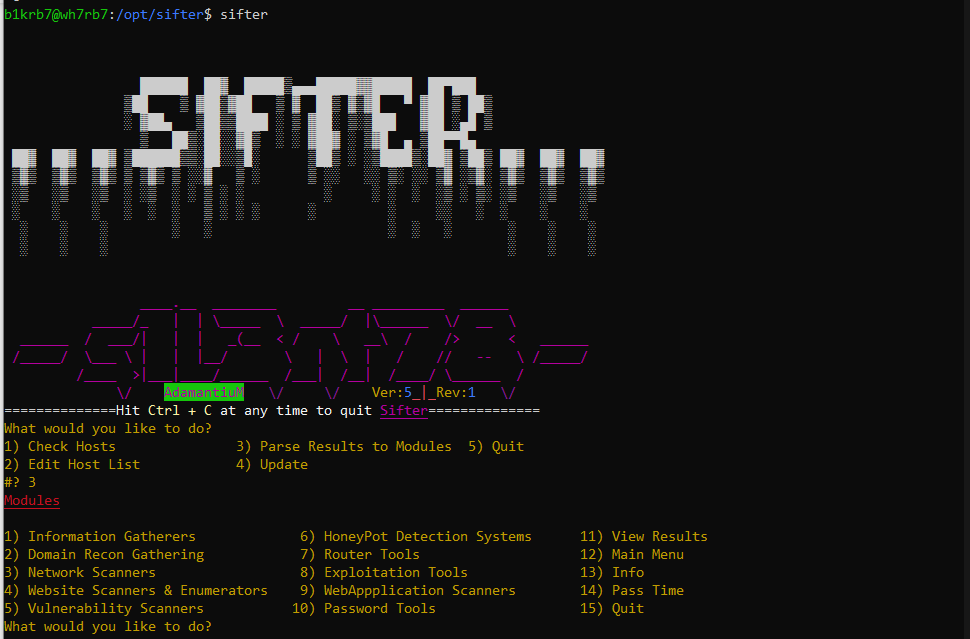
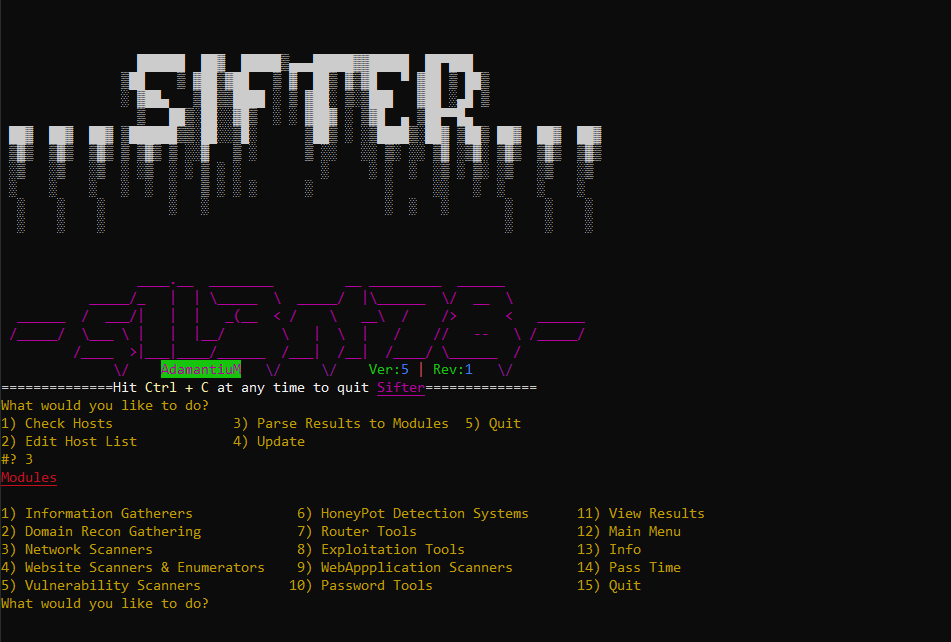
ammends

Changed region(s): [[0.0, 0.0, 0.6404, 1.0], [0.3049, 0.7731, 0.5489, 0.9812], [0.5794, 0.7731, 0.7319, 0.9812]]

diff --git a/extras/ban2.py b/extras/ban2.py
@@ -5,6 +5,7 @@ CRED = '\033[91m'
 CBLUE = '\33[94m' 
 CYELLOW = '\33[33m'
 CEND = '\033[0m'
+UGREEN = '\33[92m'
 
 def showbanner():
         print(CVIOLET + '''
@@ -13,7 +14,7 @@ def showbanner():
   ______  /  ___/|   |  |   _(__  < /    \   __\  /    />      <   ______
  /_____/  \___ \ |   |  |__/       \   |  \  |   /    //   --   \ /_____/
          /____  >|___|____/______  /___|  /__|  /____/ \______  /
-              \/    ''' + CGREENBG2 + "AdamantiuM" + CEND + " " + CVIOLET + '''  \/     \/    ''' + CYELLOW + "Ver:" + CBLUE + "5" + CRED + "_|_" + CYELLOW + "Rev:" + CBLUE + "1" + CVIOLET + '''   \/    ''' + CEND)
+              \/    ''' + CGREENBG2 + "AdamantiuM" + CEND + " " + CVIOLET + '''  \/     \/    ''' + UGREEN + "Ver:" + CBLUE + "5" + CEND + CRED + " | " + UGREEN + "Rev:" + CBLUE + "1" + CEND + CVIOLET + '''   \/    ''' + CEND)
         
         exit
 showbanner()
